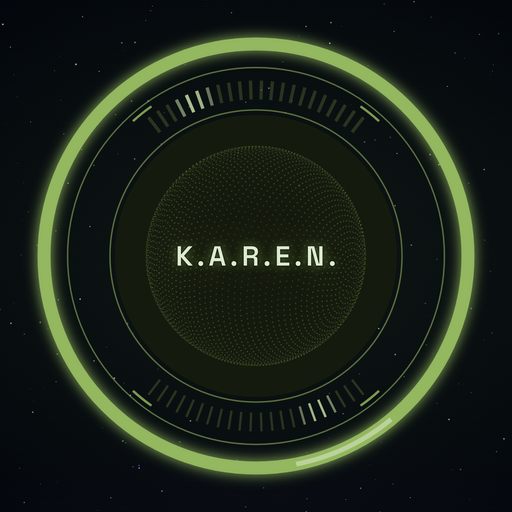
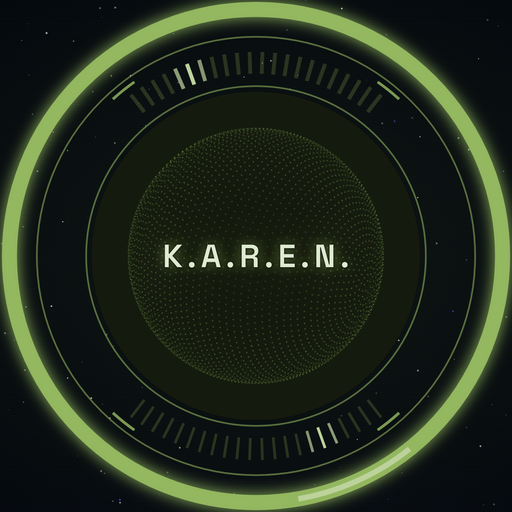
Fix: 디스코드 아바타를 바깥 링이 원 가장자리에 닿게 다시 자른다 (#117)
구체 둘레의 여백과 별 배경까지 담아서, 디스코드가 40px 원으로 줄이면 어두운 바탕만 보이고 링 색이 거의 안 보였다.
구체 영역의 가운데 86% 만 써서 바깥 링이 원 가장자리에 닿게 한다.

diff --git a/scripts/capture_avatars.py b/scripts/capture_avatars.py
@@ -2,6 +2,8 @@
 
 # docker compose --profile web up -d
 # uv run --with playwright --with pillow python scripts/capture_avatars.py main karen
+# 그림을 바꿨으면 머지 뒤 JARVIS_NOTIFY__AVATAR_BASE_URL 을 그 커밋 경로로 바꾼다.
+# 디스코드가 같은 주소의 옛 그림을 캐시한다
 
 import io
 import sys
@@ -12,6 +14,8 @@ from playwright.sync_api import Page, sync_playwright
 BASE = "http://localhost:7777"
 OUT = Path(__file__).resolve().parents[1] / "assets" / "avatars"
 SIZE = 512
+# 구체 영역 중 가운데 이만큼만 쓴다. 바깥 링이 원 가장자리에 닿아야 40px 아바타에서도 색이 보인다
+CROP = 0.86
 SETTLE_MS = 4000  # 팔레트 전환과 idle 호흡이 가라앉을 때까지
 MAIN = "main"
 
@@ -20,7 +24,7 @@ def shoot(page: Page, agent_id: str) -> None:
     page.wait_for_timeout(SETTLE_MS)
     box = page.locator(".sphere-wrap").bounding_box()
     assert box is not None, "구체를 찾지 못했다"
-    side = min(box["width"], box["height"])
+    side = min(box["width"], box["height"]) * CROP
     clip = {
         "x": box["x"] + (box["width"] - side) / 2,
         "y": box["y"] + (box["height"] - side) / 2,
